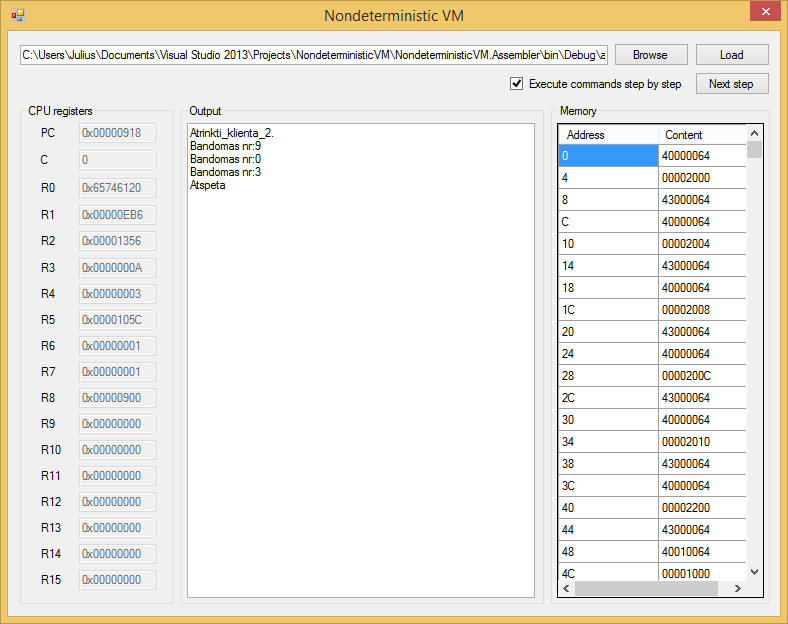
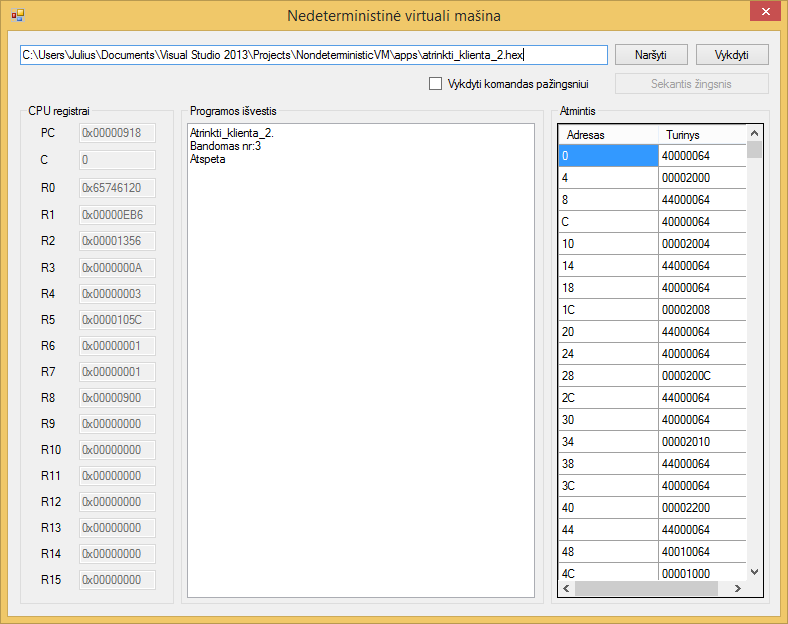
Adding lithuanian translation

diff --git a/NondeterministicVM.UI/Properties/Resources.Designer.cs b/NondeterministicVM.UI/Properties/Resources.Designer.cs
@@ -1,17 +1,17 @@
 //------------------------------------------------------------------------------
 // <auto-generated>
 //     This code was generated by a tool.
-//     Runtime Version:4.0.30319.34011
+//     Runtime Version:4.0.30319.34014
 //
 //     Changes to this file may cause incorrect behavior and will be lost if
 //     the code is regenerated.
 // </auto-generated>
 //------------------------------------------------------------------------------
 
-namespace NondeterministicVM.Properties
-{
-
-
+namespace NondeterministicVM.Properties {
+    using System;
+    
+    
     /// <summary>
     ///   A strongly-typed resource class, for looking up localized strings, etc.
     /// </summary>
@@ -22,49 +22,167 @@ namespace NondeterministicVM.Properties
     [global::System.CodeDom.Compiler.GeneratedCodeAttribute("System.Resources.Tools.StronglyTypedResourceBuilder", "4.0.0.0")]
     [global::System.Diagnostics.DebuggerNonUserCodeAttribute()]
     [global::System.Runtime.CompilerServices.CompilerGeneratedAttribute()]
-    internal class Resources
-    {
-
+    internal class Resources {
+        
         private static global::System.Resources.ResourceManager resourceMan;
-
+        
         private static global::System.Globalization.CultureInfo resourceCulture;
-
+        
         [global::System.Diagnostics.CodeAnalysis.SuppressMessageAttribute("Microsoft.Performance", "CA1811:AvoidUncalledPrivateCode")]
-        internal Resources()
-        {
+        internal Resources() {
         }
-
+        
         /// <summary>
         ///   Returns the cached ResourceManager instance used by this class.
         /// </summary>
         [global::System.ComponentModel.EditorBrowsableAttribute(global::System.ComponentModel.EditorBrowsableState.Advanced)]
-        internal static global::System.Resources.ResourceManager ResourceManager
-        {
-            get
-            {
-                if ((resourceMan == null))
-                {
+        internal static global::System.Resources.ResourceManager ResourceManager {
+            get {
+                if (object.ReferenceEquals(resourceMan, null)) {
                     global::System.Resources.ResourceManager temp = new global::System.Resources.ResourceManager("NondeterministicVM.Properties.Resources", typeof(Resources).Assembly);
                     resourceMan = temp;
                 }
                 return resourceMan;
             }
         }
-
+        
         /// <summary>
         ///   Overrides the current thread's CurrentUICulture property for all
         ///   resource lookups using this strongly typed resource class.
         /// </summary>
         [global::System.ComponentModel.EditorBrowsableAttribute(global::System.ComponentModel.EditorBrowsableState.Advanced)]
-        internal static global::System.Globalization.CultureInfo Culture
-        {
-            get
-            {
+        internal static global::System.Globalization.CultureInfo Culture {
+            get {
                 return resourceCulture;
             }
-            set
-            {
+            set {
                 resourceCulture = value;
+            }
+        }
+        
+        /// <summary>
+        ///   Looks up a localized string similar to Address.
+        /// </summary>
+        internal static string Address {
+            get {
+                return ResourceManager.GetString("Address", resourceCulture);
+            }
+        }
+        
+        /// <summary>
+        ///   Looks up a localized string similar to Browse.
+        /// </summary>
+        internal static string Browse {
+            get {
+                return ResourceManager.GetString("Browse", resourceCulture);
+            }
+        }
+        
+        /// <summary>
+        ///   Looks up a localized string similar to Content.
+        /// </summary>
+        internal static string Content {
+            get {
+                return ResourceManager.GetString("Content", resourceCulture);
+            }
+        }
+        
+        /// <summary>
+        ///   Looks up a localized string similar to Execute commands step by step.
+        /// </summary>
+        internal static string Execute_commands_step_by_step {
+            get {
+                return ResourceManager.GetString("Execute_commands_step_by_step", resourceCulture);
+            }
+        }
+        
+        /// <summary>
+        ///   Looks up a localized string similar to Load.
+        /// </summary>
+        internal static string Load {
+            get {
+                return ResourceManager.GetString("Load", resourceCulture);
+            }
+        }
+        
+        /// <summary>
+        ///   Looks up a localized string similar to CPU registers.
+        /// </summary>
+        internal static string Load_CPU_registers {
+            get {
+                return ResourceManager.GetString("Load_CPU_registers", resourceCulture);
+            }
+        }
+        
+        /// <summary>
+        ///   Looks up a localized string similar to Memory.
+        /// </summary>
+        internal static string Memory {
+            get {
+                return ResourceManager.GetString("Memory", resourceCulture);
+            }
+        }
+        
+        /// <summary>
+        ///   Looks up a localized string similar to Next step.
+        /// </summary>
+        internal static string Next_step {
+            get {
+                return ResourceManager.GetString("Next_step", resourceCulture);
+            }
+        }
+        
+        /// <summary>
+        ///   Looks up a localized string similar to Nondeterministic VM.
+        /// </summary>
+        internal static string Nondeterministic_VM {
+            get {
+                return ResourceManager.GetString("Nondeterministic_VM", resourceCulture);
+            }
+        }
+        
+        /// <summary>
+        ///   Looks up a localized string similar to Output.
+        /// </summary>
+        internal static string Output {
+            get {
+                return ResourceManager.GetString("Output", resourceCulture);
+            }
+        }
+        
+        /// <summary>
+        ///   Looks up a localized string similar to Please load application first.
+        /// </summary>
+        internal static string Please_load_application_first {
+            get {
+                return ResourceManager.GetString("Please_load_application_first", resourceCulture);
+            }
+        }
+        
+        /// <summary>
+        ///   Looks up a localized string similar to Please select a file first.
+        /// </summary>
+        internal static string Please_select_a_file_first {
+            get {
+                return ResourceManager.GetString("Please_select_a_file_first", resourceCulture);
+            }
+        }
+        
+        /// <summary>
+        ///   Looks up a localized string similar to Run.
+        /// </summary>
+        internal static string Run {
+            get {
+                return ResourceManager.GetString("Run", resourceCulture);
+            }
+        }
+        
+        /// <summary>
+        ///   Looks up a localized string similar to Virtual machine halted execution.
+        /// </summary>
+        internal static string Virtual_machine_halted_execution {
+            get {
+                return ResourceManager.GetString("Virtual_machine_halted_execution", resourceCulture);
             }
         }
     }

diff --git a/NondeterministicVM.UI/Form1.cs b/NondeterministicVM.UI/Form1.cs
@@ -1,6 +1,7 @@
 using System;
 using System.Windows.Forms;
 using NondeterministicVM.BLL;
+using NondeterministicVM.Properties;
 
 namespace NondeterministicVM
 {
@@ -30,14 +31,14 @@ namespace NondeterministicVM
         {
             button3.Enabled = checkBox1.Checked;
 
-            button2.Text = checkBox1.Checked ? "Load" : "Run";
+            button2.Text = checkBox1.Checked ? Resources.Load : Resources.Run;
         }
 
         private void button2_Click(object sender, EventArgs e)
         {
             if (textBox1.Text == "")
             {
-                MessageBox.Show("Please select a file first");
+                MessageBox.Show(Resources.Please_select_a_file_first);
             }
 
             NewVirtualMachine();
@@ -59,8 +60,8 @@ namespace NondeterministicVM
 
             dataGridView1.DataSource = new BindingSource(_memory._dataStore, null);
 
-            dataGridView1.Columns[0].HeaderText = "Address";
-            dataGridView1.Columns[1].HeaderText = "Content";
+            dataGridView1.Columns[0].HeaderText = Resources.Address;
+            dataGridView1.Columns[1].HeaderText = Resources.Content;
 
             textBox18.Text = "";
 
@@ -78,7 +79,7 @@ namespace NondeterministicVM
             }
             catch (VmHaltException)
             {
-                MessageBox.Show("Virtual machine halted execution");
+                MessageBox.Show(Resources.Virtual_machine_halted_execution);
             }
         }
 
@@ -115,7 +116,7 @@ namespace NondeterministicVM
         {
             if (! _fileLoaded)
             {
-                MessageBox.Show("Please load application first");
+                MessageBox.Show(Resources.Please_load_application_first);
 
                 return;
             }
@@ -126,7 +127,7 @@ namespace NondeterministicVM
             }
             catch (VmHaltException)
             {
-                MessageBox.Show("Virtual machine halted execution");
+                MessageBox.Show(Resources.Virtual_machine_halted_execution);
             }            
         }
 
@@ -149,6 +150,21 @@ namespace NondeterministicVM
                     e.FormattingApplied = true;
                 }
             }
+        }
+
+        private void Form1_Load(object sender, EventArgs e)
+        {
+            this.Text = Resources.Nondeterministic_VM;
+
+            button1.Text = Resources.Browse;
+            button2.Text = Resources.Run;
+            button3.Text = Resources.Next_step;
+
+            checkBox1.Text = Resources.Execute_commands_step_by_step;
+
+            groupBox1.Text = Resources.Load_CPU_registers;
+            groupBox2.Text = Resources.Output;
+            groupBox3.Text = Resources.Memory;            
         }
     }
 }

diff --git a/NondeterministicVM.UI/Form1.Designer.cs b/NondeterministicVM.UI/Form1.Designer.cs
@@ -101,7 +101,7 @@
             // checkBox1
             // 
             this.checkBox1.AutoSize = true;
-            this.checkBox1.Location = new System.Drawing.Point(502, 45);
+            this.checkBox1.Location = new System.Drawing.Point(421, 45);
             this.checkBox1.Name = "checkBox1";
             this.checkBox1.Size = new System.Drawing.Size(179, 17);
             this.checkBox1.TabIndex = 2;
@@ -126,9 +126,9 @@
             // button3
             // 
             this.button3.Enabled = false;
-            this.button3.Location = new System.Drawing.Point(687, 41);
+            this.button3.Location = new System.Drawing.Point(606, 41);
             this.button3.Name = "button3";
-            this.button3.Size = new System.Drawing.Size(75, 23);
+            this.button3.Size = new System.Drawing.Size(156, 23);
             this.button3.TabIndex = 4;
             this.button3.Text = "Next step";
             this.button3.UseVisualStyleBackColor = true;
@@ -541,6 +541,7 @@
             this.MinimizeBox = false;
             this.Name = "Form1";
             this.Text = "Nondeterministic VM";
+            this.Load += new System.EventHandler(this.Form1_Load);
             this.groupBox1.ResumeLayout(false);
             this.groupBox1.PerformLayout();
             this.groupBox2.ResumeLayout(false);
